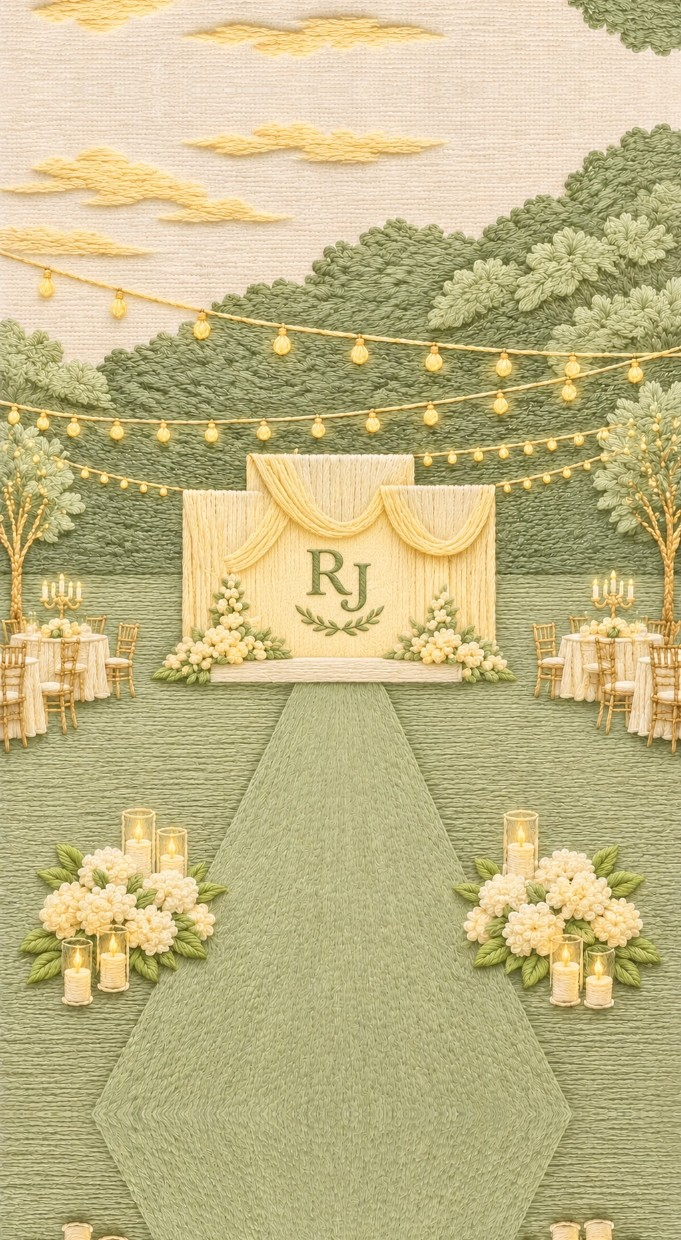
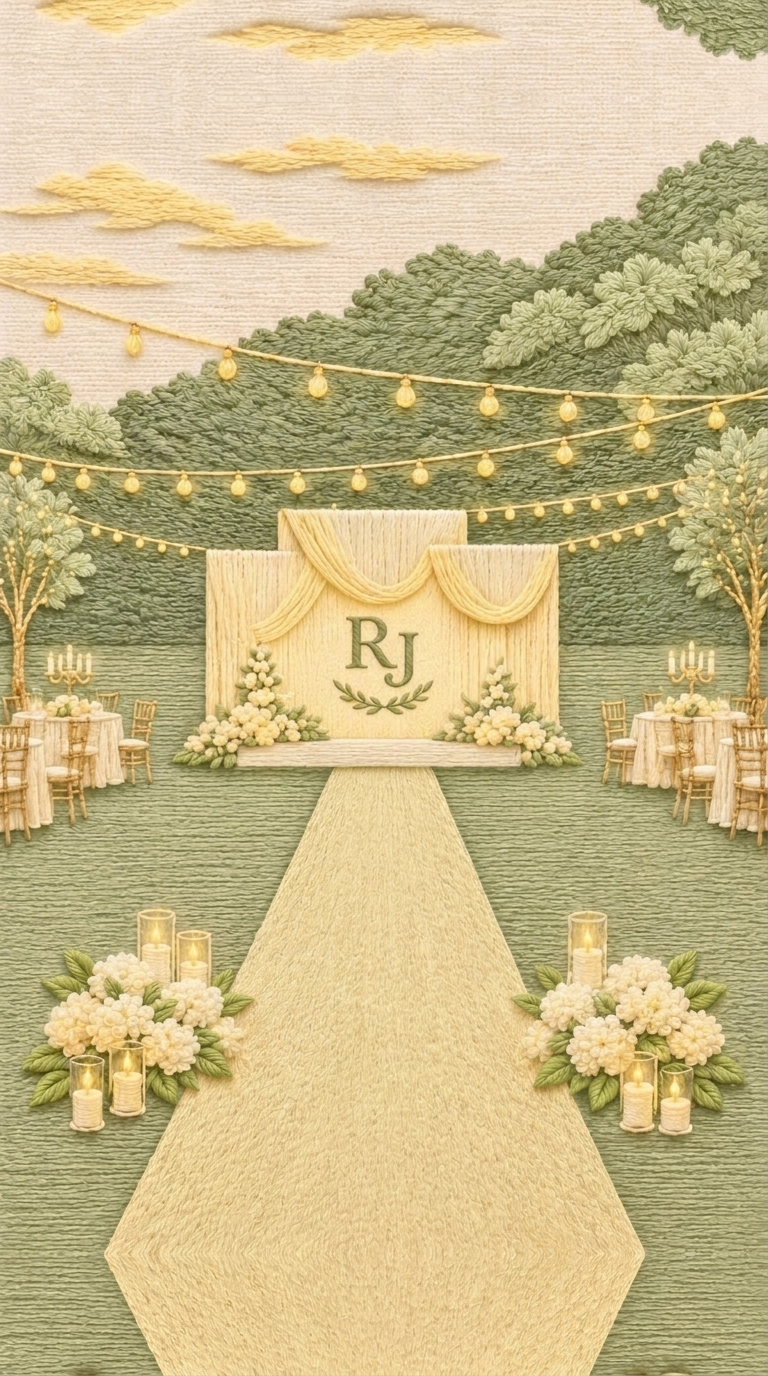
Update entrance walkway to pale yellow embroidered fabric

diff --git a/index.html b/index.html
@@ -36,7 +36,7 @@
       <!-- SECTION 1: EMBROIDERED WEDDING STAGE & AISLE ARTWORK -->
       <section class="card-section hero-section" id="hero">
         <div class="hero-artwork-wrap">
-          <img src="assets/wedding-stage.jpg?v=2"
+          <img src="assets/wedding-stage.jpg?v=3"
             alt="Hand-embroidered wedding stage and walkway in pale yellow and sage green with RJ monogram" class="hero-img" />
 
           <a href="#scripture" class="scroll-cue" aria-label="Scroll to invitation">
